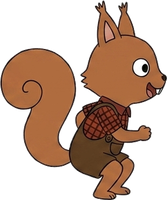
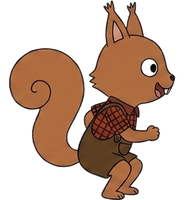
자리 맡기: 방향별 움직임 다듬기 — 달리기 4장 크기 통일, 아래로는 정면 뒤뚱 걷기, 일정한 속도 이동, 걸음과 이동 거리 맞춤, 돌아설 때 납작
- 달리기 그림을 장마다 따로 잘라 크기가 들쭉날쭉하던 것을 같은 틀로 다시 자름
- 그리는 위치를 걸음 진행도로 보간해 칸마다 멈칫거리던 것 제거, 벽에서 한 칸 뒤처져 보이던 것 수정

Claude-Session: https://claude.ai/code/session_013wfMHj7YfyKc9So8NsgLCh

diff --git a/mat/index.html b/mat/index.html
@@ -295,7 +295,9 @@ function drawResident(p, x, y, t){
   let im, run = false;
   if(p.stun) im = IMG['hit_'+k];
   else if(p.rest > 0) im = IMG['ch_'+k];
+  else if(p.dir === 1 && !p.under) im = IMG['ch_'+k];                    // 아래(화면 쪽)로: 정면 그림 뒤뚱 걷기
   else { im = IMG['run_'+k+'_'+(Math.floor(an.ph) % 4)]; run = ok(im); if(!run) im = IMG['ch_'+k]; }
+  const waddle = !run && !p.stun && !(p.rest > 0) && p.dir === 1;
   const st = sticker(im);
   // 질주 속도선
   if(p.boost > 0){ const [dx,dy] = C.DIRS[p.dir]; ctx.strokeStyle = 'rgba(255,248,236,.85)'; ctx.lineWidth = 2; ctx.lineCap = 'round'; ctx.beginPath();
@@ -308,9 +310,12 @@ function drawResident(p, x, y, t){
     ctx.beginPath(); ctx.rect(-CS*2, -h*2, CS*4, h*2 - CS*0.35); ctx.clip(); ctx.translate(0, h*0.5); }   // 그림을 반쯤 내리고 둔덕 윗선 위만 보이게
   if(p.stun) ctx.rotate(Math.sin(t*18)*0.18 + 0.9);
   else if(p.rest > 0) ctx.rotate(-Math.PI/2.3);
-  else if(run){ ctx.translate(0, -Math.abs(Math.sin(an.ph*Math.PI/2))*CS*0.08); ctx.scale(an.face, 1); }   // 달리기: 걸음마다 살짝 뜀, 좌우 뒤집기
+  else if(run){ ctx.translate(0, -Math.abs(Math.sin(an.ph*Math.PI/2))*CS*0.08);    // 달리기: 걸음마다 살짝 뜀
+    const tw = an.turn > 0 ? 0.35 + 0.65*(1 - an.turn/0.14) : 1; ctx.scale(an.face*tw, 1); }   // 좌우 뒤집기 + 돌아서는 순간 납작
+  else if(waddle){ const w = Math.sin(an.ph*Math.PI/2); ctx.rotate(w*0.13); ctx.translate(0, -Math.abs(w)*CS*0.1); ctx.scale(1 + Math.abs(w)*0.04, 1 - Math.abs(w)*0.04); }
   else ctx.rotate(Math.sin(t*14 + p.id)*0.06);
-  if(st){ const sc = h / im.naturalHeight, w = st.c.width*sc, hh = st.c.height*sc; ctx.drawImage(st.c, -w/2, -h - st.pad*sc, w, hh); }
+  if(st){ const sc = run ? Math.min(h*0.92 / im.naturalHeight, CS*2.3 / im.naturalWidth) : h / im.naturalHeight, ih = im.naturalHeight*sc;
+    const w = st.c.width*sc, hh = st.c.height*sc; ctx.drawImage(st.c, -w/2, -ih - st.pad*sc, w, hh); }
   else { ctx.beginPath(); ctx.arc(0, -h/2, CS*0.5, 0, 7); ctx.fillStyle = COL[k]; ctx.fill(); }
   ctx.restore();
   if(p.under > 0){ // 둔덕 (앞)
@@ -369,9 +374,11 @@ function frame(){
   ctx.fillStyle = '#7E9150'; ctx.fillRect(0,0,W,H);
   if(!g){ requestAnimationFrame(frame); return; }
   const N = g.N, me = g.players[meId], t = now/1000;
+  // 그리는 위치 = 직전 칸에서 지금 칸으로 걸음 진행도만큼 (일정한 속도로 미끄러짐 없이)
   for(const p of g.players){ const r = rp[p.id] || (rp[p.id] = { x:p.x, y:p.y });
-    if(Math.abs(r.x-p.x) + Math.abs(r.y-p.y) > 3){ r.x = p.x; r.y = p.y; }
-    const k = Math.min(1, dt*16); r.x += (p.x - r.x)*k; r.y += (p.y - r.y)*k; }
+    const jump = Math.abs(p.x - p.px) + Math.abs(p.y - p.py) > 1, f = (jump || p.stun || p.rest > 0) ? 1 : Math.min(1, p.acc);
+    const tx = p.px + (p.x - p.px)*f, ty = p.py + (p.y - p.py)*f;
+    if(Math.abs(r.x - tx) + Math.abs(r.y - ty) > 2){ r.x = tx; r.y = ty; } else { const k = Math.min(1, dt*30); r.x += (tx - r.x)*k; r.y += (ty - r.y)*k; } }
   const mr = rp[meId];
   camX += ((mr.x+0.5)*CS - W/2 - camX)*Math.min(1, dt*7); camY += ((mr.y+0.5)*CS - H*0.5 - camY)*Math.min(1, dt*7);
   clampCam(N);
@@ -563,8 +570,10 @@ function drawHud(me, dang, t, dt){
 function motionTick(dt, t){
   for(const p of g.players){
     const an = anim[p.id] || (anim[p.id] = { ph: 0, face: 1, lx: p.x, ly: p.y, n: 0 });
-    if(p.dir === 0) an.face = 1; else if(p.dir === 2) an.face = -1;
-    if(!p.stun && !(p.rest > 0)) an.ph += dt * g.o.speed * 1.25 * (p.boost ? 1.6 : 1) * (p.slow ? 0.5 : 1);
+    const nf = p.dir === 0 ? 1 : p.dir === 2 ? -1 : an.face;
+    if(nf !== an.face){ an.face = nf; an.turn = 0.14; }
+    an.turn = Math.max(0, (an.turn || 0) - dt);
+    if(!p.stun && !(p.rest > 0)) an.ph = (an.n + Math.min(1, p.acc)) * 2;   // 한 칸에 두 장
     if(an.lx !== p.x || an.ly !== p.y){
       if(Math.abs(an.lx - p.x) + Math.abs(an.ly - p.y) === 1){ an.n++;
         const x = (an.lx + 0.5)*CS, y = (an.ly + 0.5)*CS + CS*0.32;

diff --git a/mat/core.js b/mat/core.js
@@ -123,7 +123,7 @@
     // 한 칸 이동
     function step(p){
       const [dx,dy] = DIRS[p.dir], nx = p.x + dx, ny = p.y + dy;
-      if(!inb(nx,ny)){ p.acc = 0; return; }
+      if(!inb(nx,ny)){ p.acc = 0; p.px = p.x; p.py = p.y; return; }   // 벽: 제자리에 서 있게
       const c = idx(nx,ny);
       if(trail[c] === p.id && !p.under){ trip(p, null); return; }          // 내 끈을 밟음
       p.px = p.x; p.py = p.y; p.x = nx; p.y = ny;
